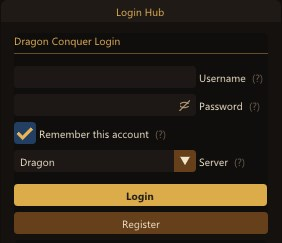
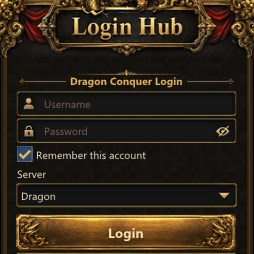
6.2.6 New login form images

diff --git a/scripts/login.py b/scripts/login.py
@@ -34,8 +34,8 @@ CONF_LOGIN = 0.8
 #   pass  = ~3/4 along the Password box, clear of the show/hide eye icon
 #   login = the Login button
 FORMS = [
-    ('big',   _tmpl_login,       {'user': (185, 70), 'pass': (175, 105), 'login': (176, 218)}),  # 354x282
-    ('small', _tmpl_login_small, {'user': (140, 78), 'pass': (130, 105), 'login': (140, 195)}),  # 282x243
+    ('big',   _tmpl_login,       {'user': (240, 137), 'pass': (230, 178), 'login': (175, 323)}),  # 347x352
+    ('small', _tmpl_login_small, {'user': (175, 104), 'pass': (165, 131), 'login': (127, 234)}),  # 254x254
 ]
 CLEAR_KEYS     = 40           # backspaces to empty a field that might hold a remembered value
 
